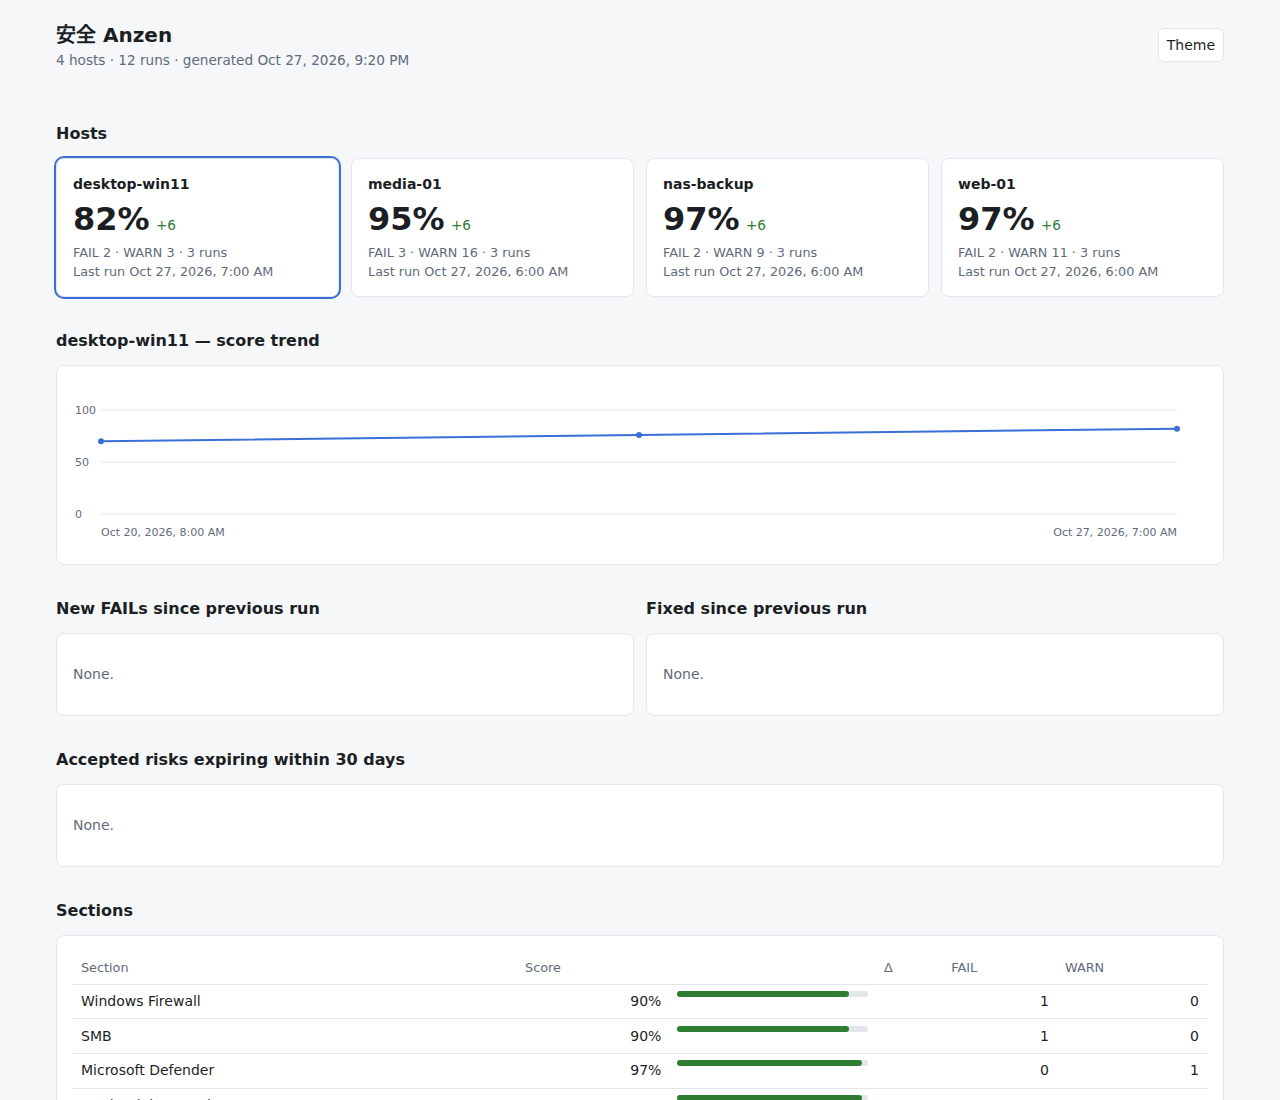
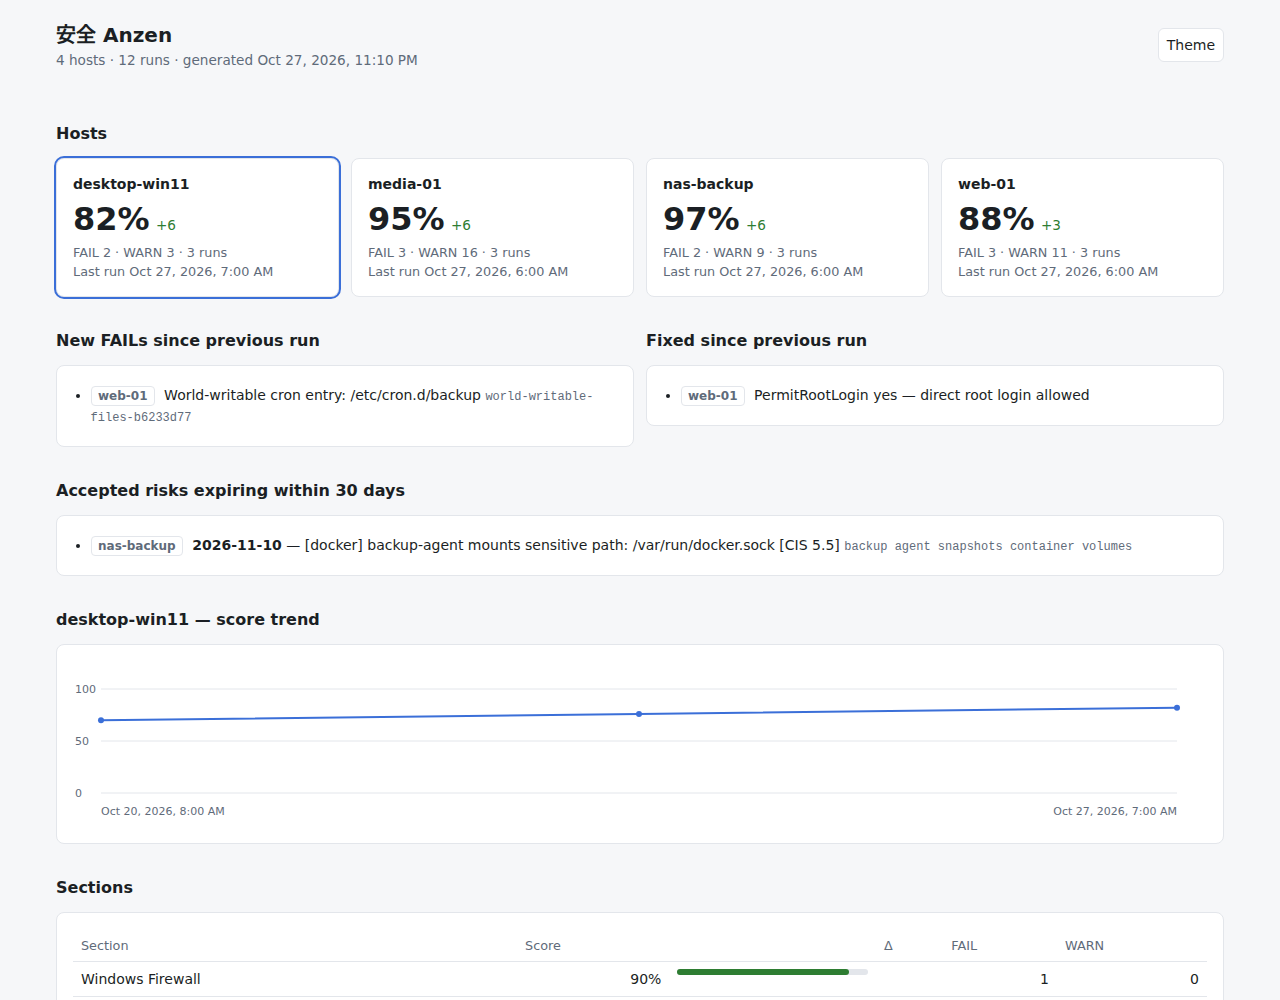
dashboard: fleet-wide attention panels, open on worst host; richer demo data

diff --git a/CHANGELOG.md b/CHANGELOG.md
@@ -6,6 +6,10 @@ All notable changes to this project are documented here. The format follows
 
 ## [Unreleased]
 
+### Changed
+- Dashboard: "New FAILs", "Fixed" and "Accepted risks expiring" now cover the whole fleet, each entry tagged with its host; the view opens on the lowest-scoring host
+- Live demo data tells a story (a new FAIL, a fix, an expiring accepted risk) and accepted-risk dates move with the demo dates
+
 ## [0.9.0] - 2026-10-27
 
 First public release.
